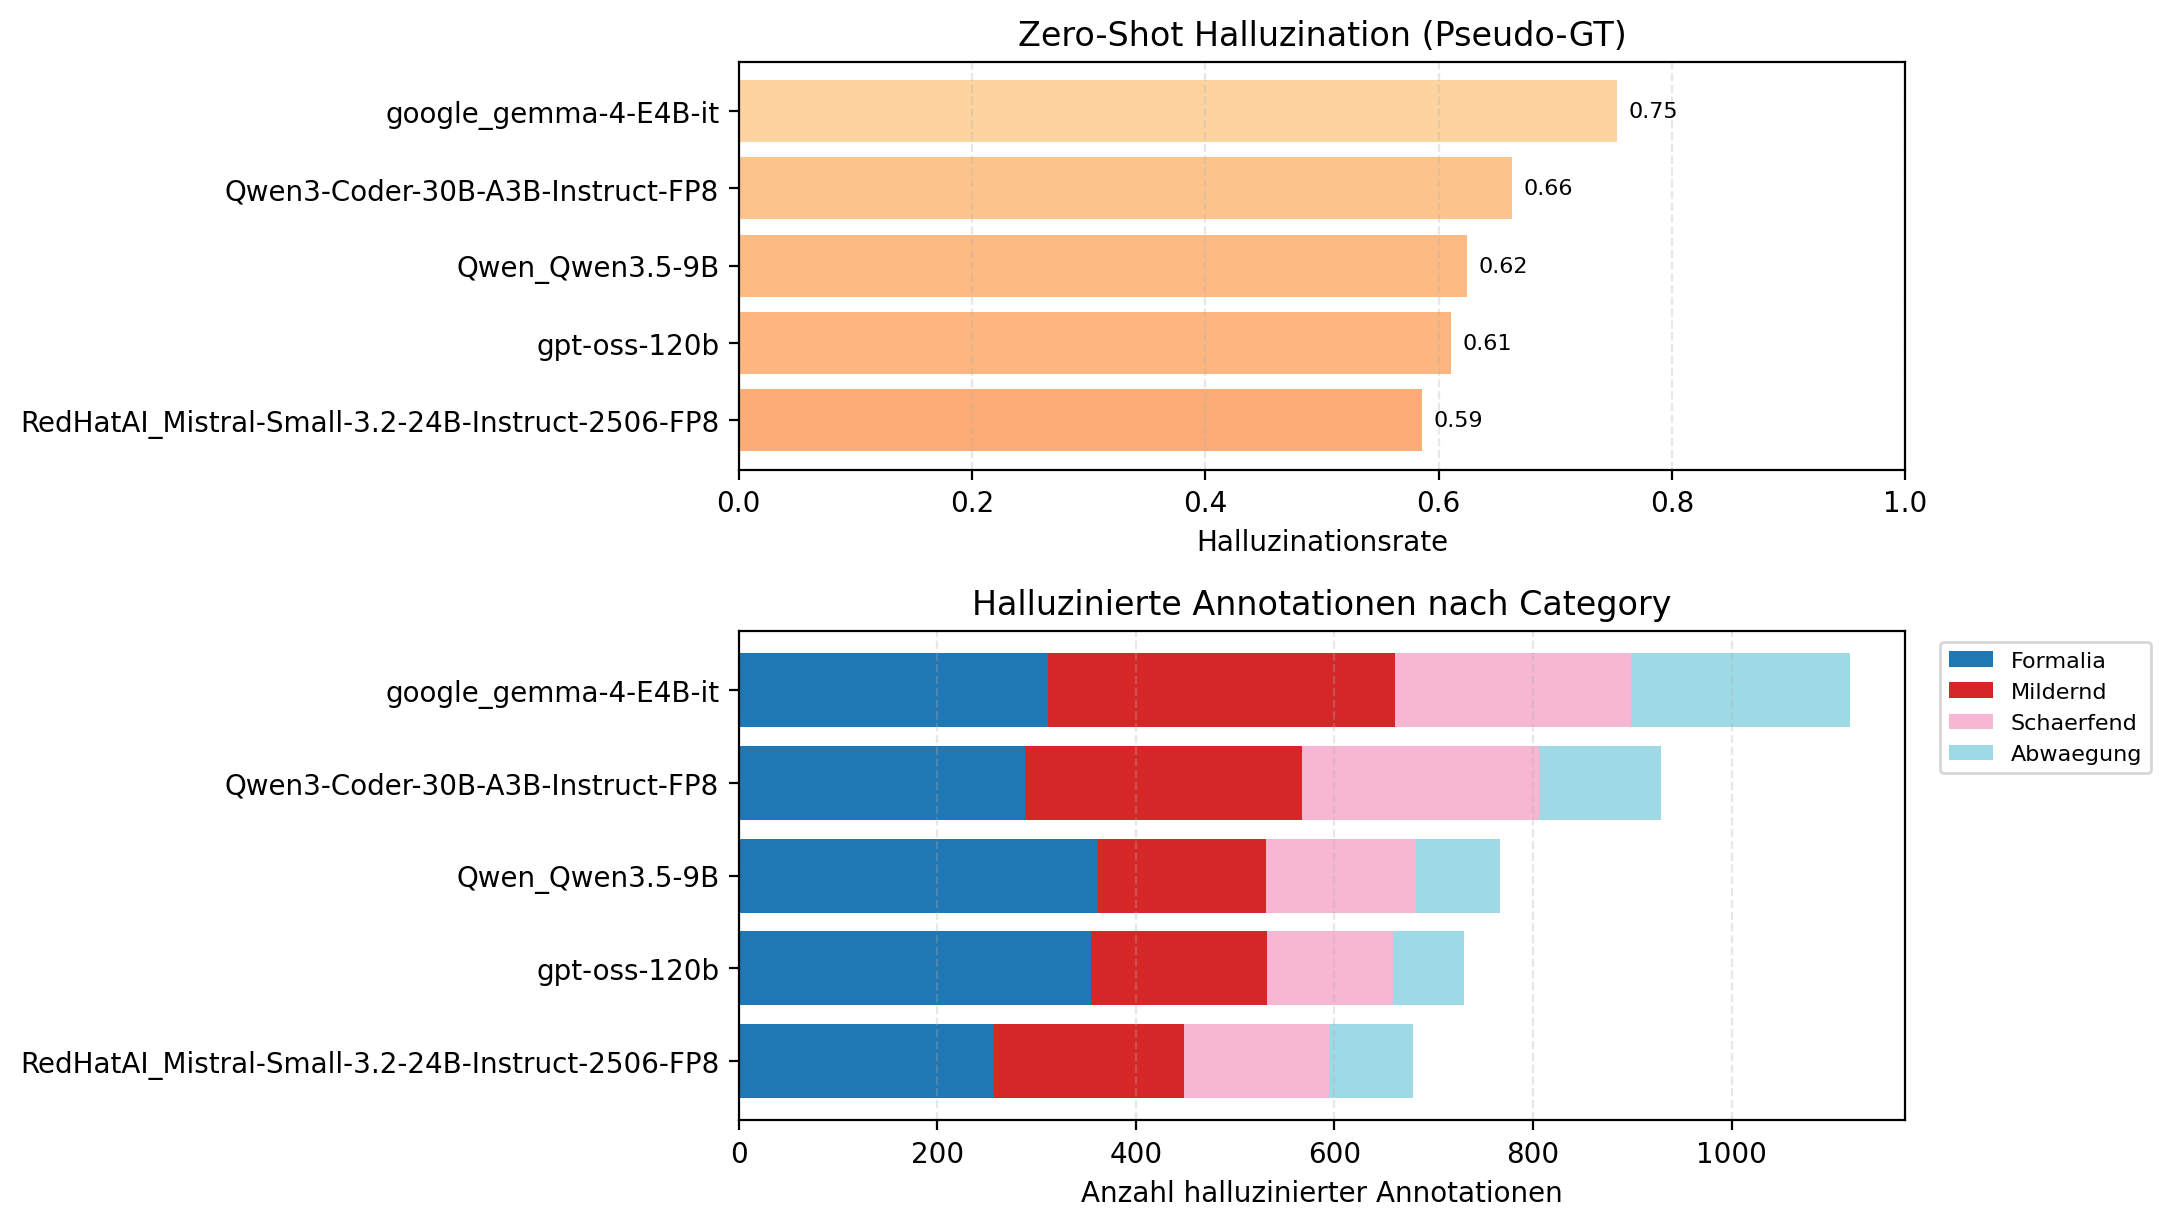
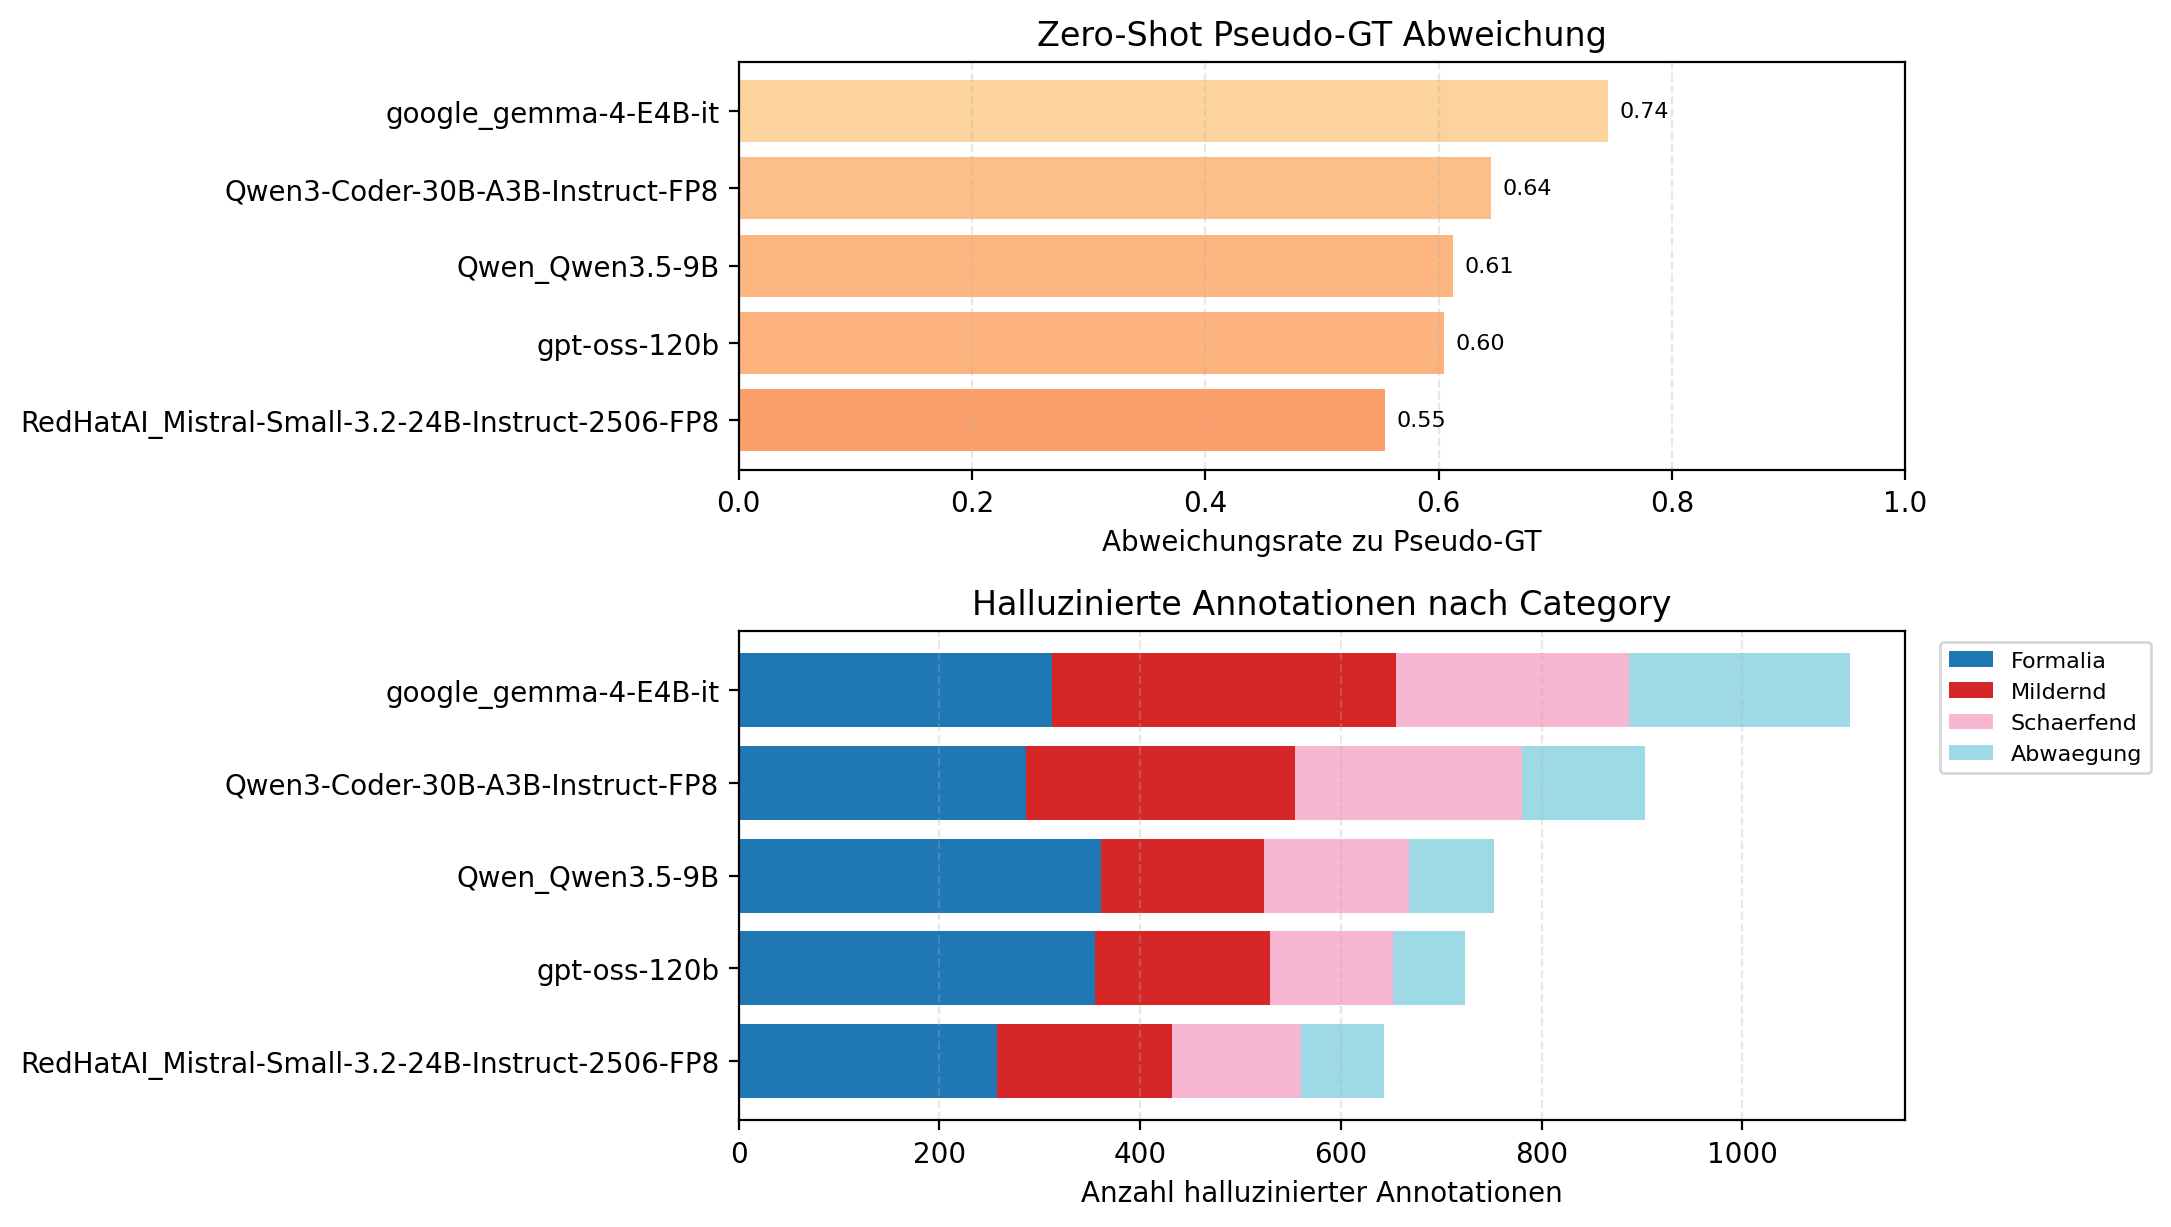
set down threshholdvalue

diff --git a/analyze_2.py b/analyze_2.py
@@ -32,7 +32,7 @@ import pandas as pd
 # ─────────────────────────────────────────────
 
 SIMILARITY_THRESHOLD = 0.75   # Ab wann gilt ein Quote-Match als "gefunden"
-MAJORITY_THRESHOLD   = 0.5    # Anteil Modelle, die einen Tag brauchen für Pseudo-GT
+MAJORITY_THRESHOLD   = 0.35    # Anteil Modelle, die einen Tag brauchen für Pseudo-GT
 BOOTSTRAP_N          = 1_000  # Iterationen für Konfidenzintervalle
 RANDOM_SEED          = 42
 
@@ -465,7 +465,13 @@ if not df_pseudo.empty:
         lambda row: compute_hallucination_rate(int(row["TP"]), int(row["FP"])),
         axis=1,
     )
+    pseudo_summary["Pseudo_Disagreement_Rate"] = pseudo_summary["Hallucination_Rate"]
     pseudo_summary = pseudo_summary.sort_values("f1", ascending=False)
+    if df_gt.empty:
+        print(
+            "Hinweis: Ohne Ground-Truth ist Hallucination_Rate eine "
+            "Pseudo-GT-Konsens-Abweichung (nicht zwingend echte Halluzination im Text)."
+        )
     print(pseudo_summary.to_string(index=False))
 
 
@@ -591,10 +597,14 @@ if has_gt or has_pgt:
         hallucination_plot = model_gt_summary.sort_values("Hallucination_Rate")
         hallucination_categories = gt_hallucinated_by_model
         hallucination_title = "Zero-Shot Halluzination (Ground Truth)"
+        hallucination_rate_col = "Hallucination_Rate"
+        hallucination_x_label = "Halluzinationsrate"
     else:
-        hallucination_plot = pseudo_summary.sort_values("Hallucination_Rate")
+        hallucination_plot = pseudo_summary.sort_values("Pseudo_Disagreement_Rate")
         hallucination_categories = pseudo_hallucinated_by_model
-        hallucination_title = "Zero-Shot Halluzination (Pseudo-GT)"
+        hallucination_title = "Zero-Shot Pseudo-GT Abweichung"
+        hallucination_rate_col = "Pseudo_Disagreement_Rate"
+        hallucination_x_label = "Abweichungsrate zu Pseudo-GT"
 
     category_names = sorted({cat for counts in hallucination_categories.values() for cat in counts.keys()})
     if not category_names:
@@ -616,17 +626,17 @@ if has_gt or has_pgt:
         gridspec_kw={"height_ratios": [1, 1.2]},
     )
 
-    colors_hall = plt.cm.OrRd(norm(1 - hallucination_plot["Hallucination_Rate"]))
-    hallu_ax_rate.barh(hallucination_plot["Model"], hallucination_plot["Hallucination_Rate"], color=colors_hall)
+    colors_hall = plt.cm.OrRd(norm(1 - hallucination_plot[hallucination_rate_col]))
+    hallu_ax_rate.barh(hallucination_plot["Model"], hallucination_plot[hallucination_rate_col], color=colors_hall)
     hallu_ax_rate.set_title(hallucination_title)
-    hallu_ax_rate.set_xlabel("Halluzinationsrate")
+    hallu_ax_rate.set_xlabel(hallucination_x_label)
     hallu_ax_rate.set_xlim(0, 1)
     hallu_ax_rate.grid(axis="x", linestyle="--", alpha=0.3)
     for idx, (_, row) in enumerate(hallucination_plot.iterrows()):
         hallu_ax_rate.text(
-            min(row["Hallucination_Rate"] + 0.01, 0.97),
+            min(row[hallucination_rate_col] + 0.01, 0.97),
             idx,
-            f"{row['Hallucination_Rate']:.2f}",
+            f"{row[hallucination_rate_col]:.2f}",
             va="center",
             fontsize=8,
         )

diff --git a/auswertung_zero_shot.py b/auswertung_zero_shot.py
@@ -44,10 +44,10 @@ TAG_ALIASES = {
     "Geständnis": "Gestaendnis",
 }
 CATEGORY_ALIASES = {
-    "ABWAEGUNG":  "Abwägung",
-    "Abwaegung":  "Abwägung",
-    "SCHAERFEND": "Schärfend",
-    "Schaerfend": "Schärfend",
+    "Abwaegung":  "Abwaegung",
+    "Abwaegung":  "Abwaegung",
+    "Schaerfend": "Schaerfend",
+    "Schaerfend": "Schaerfend",
 }
 
 # ============================================================
